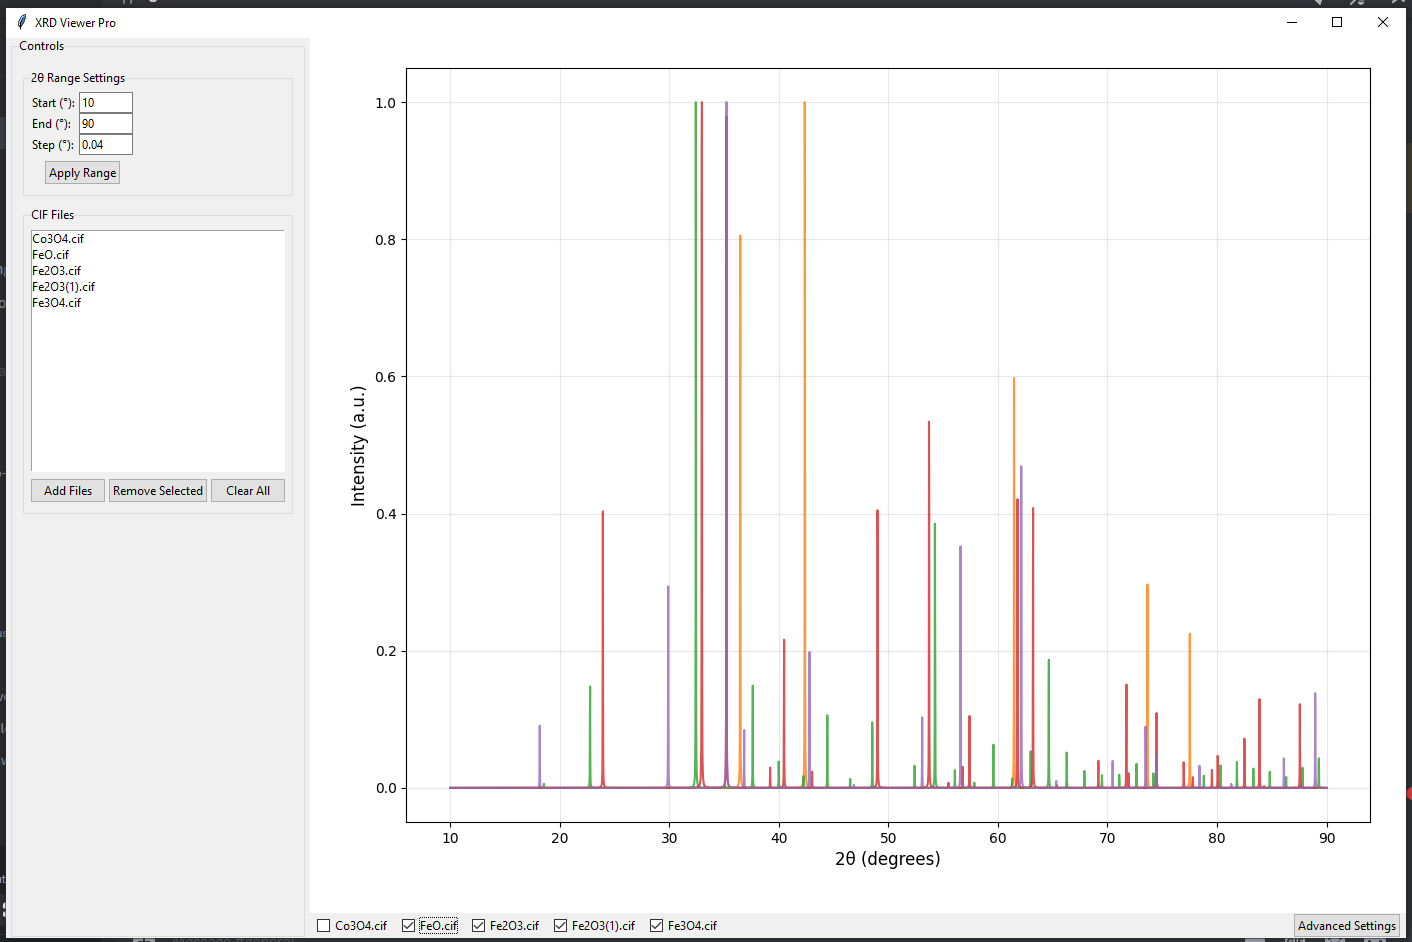
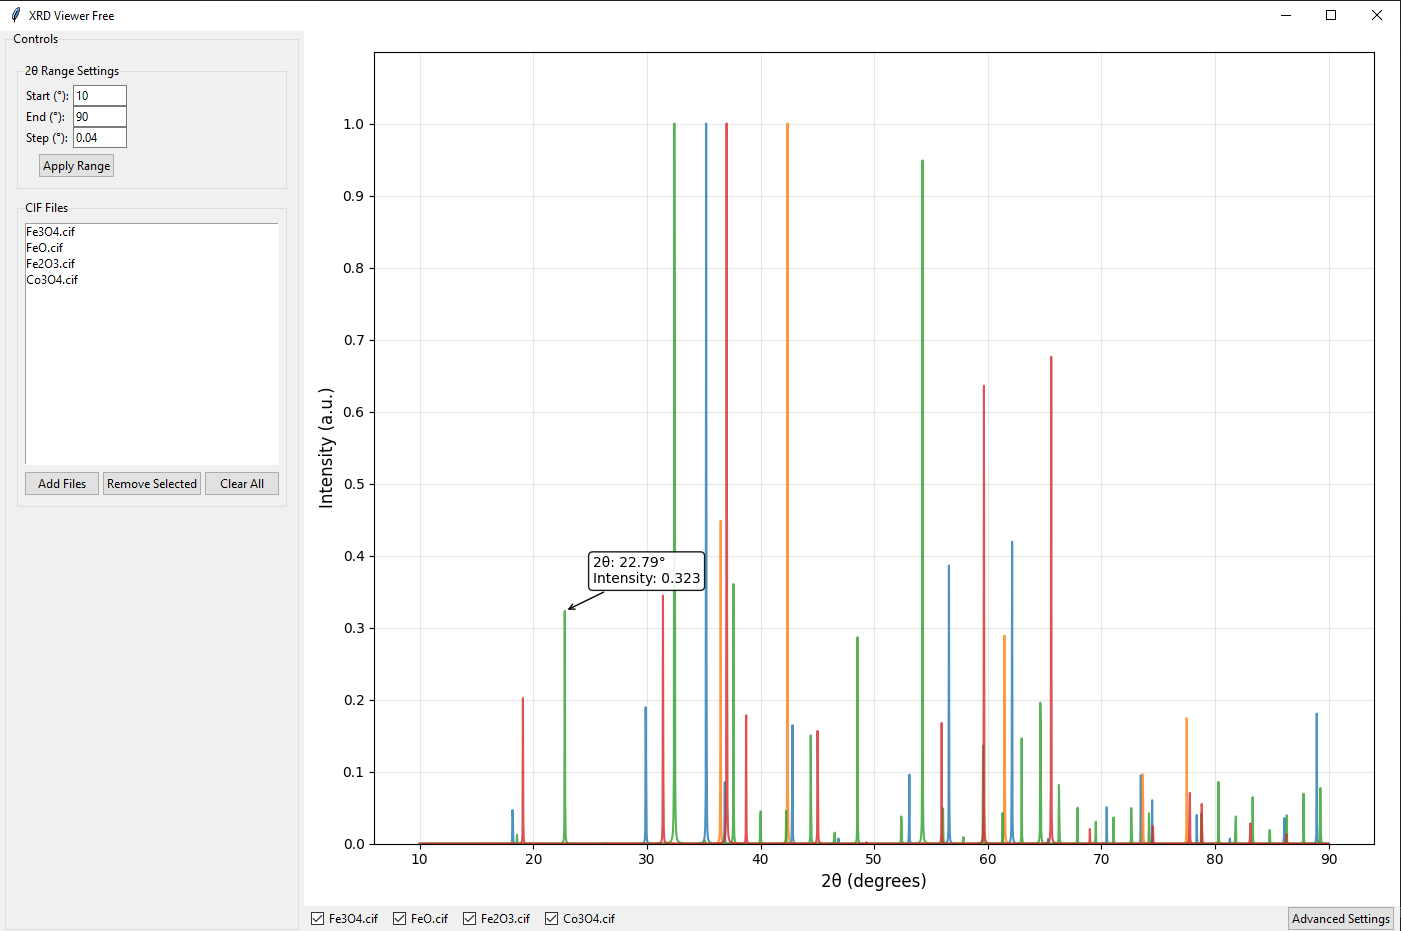
Ditched the 3D idea as it was an impossible implementation due to poor Materials Project API documentation. Added the ability to read the values on the plot.

diff --git a/main.py b/main.py
@@ -20,13 +20,26 @@ class PowderDiffractionViewer:
         self.spectra = {}
         self.wavelength = 1.5406  # Cu K-alpha
         self.sigma = 0.04  # Peak broadening (degrees)
-        self.theta_range = [10, 90]
-        self.step = 0.02
+        self.theta_range = [10, 90] #2theta range
+        self.step = 0.02 
         
-        # Create GUI components
         self.create_widgets()
         self.setup_plot()
         
+        self.canvas.mpl_connect("motion_notify_event", self.on_motion)
+        
+    def on_motion(self, event):
+        """Handle mouse motion events to show x, y values"""
+        if event.inaxes == self.ax:
+            x = event.xdata
+            y = event.ydata
+            self.annotation.xy = (x, y)
+            self.annotation.set_text(f"2θ: {x:.2f}°\nIntensity: {y:.3f}")
+            self.annotation.set_visible(True)
+        else:
+            self.annotation.set_visible(False)
+        self.canvas.draw_idle()
+
     def view_3d_structure(self):
         selected = self.file_list.curselection()
         if not selected:
@@ -35,19 +48,18 @@ class PowderDiffractionViewer:
     
         try:
             cif_path = self.files[selected[0]]
-            subprocess.Popen(["python", "crystal_3d_viewer.py", cif_path])
+            subprocess.Popen(["python", "fast_3d_viewer.py", cif_path])
         except Exception as e:
-            messagebox.showerror("Error", f"3D visualization failed:\n{str(e)}")    
+            messagebox.showerror("Error", f"3D visualization failed:\n{str(e)}") 
+            print(e)   
         
     def create_widgets(self):
         main_frame = ttk.Frame(self.root)
         main_frame.pack(fill=tk.BOTH, expand=True)
         
-        # Control panel
         control_frame = ttk.LabelFrame(main_frame, text="Controls", padding=10)
         control_frame.pack(side=tk.LEFT, fill=tk.Y, padx=5)
         
-        # Range settings
         range_frame = ttk.LabelFrame(control_frame, text="2θ Range Settings", padding=5)
         range_frame.pack(fill=tk.X, pady=5)
         
@@ -69,7 +81,6 @@ class PowderDiffractionViewer:
         ttk.Button(range_frame, text="Apply Range", 
                  command=self.update_theta_range).grid(row=3, column=0, columnspan=2, pady=5)
         
-        # File management
         file_frame = ttk.LabelFrame(control_frame, text="CIF Files", padding=5)
         file_frame.pack(fill=tk.X, pady=5)
         
@@ -83,7 +94,6 @@ class PowderDiffractionViewer:
         ttk.Button(btn_frame, text="Remove Selected", command=self.remove_selected_files).pack(side=tk.LEFT, fill=tk.X, expand=True, padx=2)
         ttk.Button(btn_frame, text="Clear All", command=self.clear_files).pack(side=tk.LEFT, fill=tk.X, expand=True)
         
-        # Plot area
         plot_frame = ttk.Frame(main_frame)
         plot_frame.pack(side=tk.RIGHT, fill=tk.BOTH, expand=True)
         
@@ -93,23 +103,30 @@ class PowderDiffractionViewer:
         self.canvas = FigureCanvasTkAgg(self.fig, master=plot_frame)
         self.canvas.get_tk_widget().pack(fill=tk.BOTH, expand=True)
         
-        # Toolbar with checkboxes
         self.toolbar = ttk.Frame(plot_frame)
         self.toolbar.pack(side=tk.BOTTOM, fill=tk.X)
         
         advanced_btn = ttk.Button(self.toolbar, text="Advanced Settings",
                                 command=self.show_advanced_settings)
-        advanced_btn.pack(side=tk.RIGHT, padx=5)
+        advanced_btn.pack(side=tk.RIGHT, padx=5)        
         
-        # 3D structure button
-        #ttk.Button(btn_frame, text="View 3D Structure", 
-        #  command=self.view_3d_structure).pack(side=tk.LEFT, fill=tk.X, expand=True, padx=2)
         
     def setup_plot(self):
         self.ax.set_xlabel("2θ (degrees)", fontsize=12)
         self.ax.set_ylabel("Intensity (a.u.)", fontsize=12)
         self.ax.grid(True, alpha=0.3)
         self.fig.tight_layout()
+    
+        # Set y-axis ticks and limits
+        self.ax.set_yticks(np.arange(0, 1.1, 0.1))
+        self.ax.set_ylim(0, 1.1)
+
+        self.annotation = self.ax.annotate(
+            "", xy=(0,0), xytext=(20,20), textcoords="offset points",
+            bbox=dict(boxstyle="round", fc="w", alpha=0.9),
+            arrowprops=dict(arrowstyle="->")
+        )
+        self.annotation.set_visible(False)
         
     def show_advanced_settings(self):
         """Dialog for advanced parameters"""
@@ -156,7 +173,6 @@ class PowderDiffractionViewer:
             self.theta_range = [new_start, new_end]
             self.step = new_step
             
-            # Reprocess all files with new settings
             if self.files:
                 current_files = self.files.copy()
                 self.clear_files()
@@ -185,11 +201,9 @@ class PowderDiffractionViewer:
     def remove_selected_files(self):
         selected = self.file_list.curselection()
         if selected:
-            # Remove in reverse order to preserve indices
             for idx in reversed(selected):
                 path = self.files[idx]
                 if path in self.spectra:
-                    # Remove checkbox
                     self.spectra[path]['checkbox'].destroy()
                     del self.spectra[path]
                 del self.files[idx]
@@ -197,7 +211,6 @@ class PowderDiffractionViewer:
             self.redraw_plot()
             
     def clear_files(self):
-        # Destroy all checkboxes and clear data
         for path in list(self.spectra.keys()):
             self.spectra[path]['checkbox'].destroy()
             del self.spectra[path]
@@ -294,7 +307,7 @@ class PowderDiffractionViewer:
         
     def update_plot(self):
         self.ax.relim()
-        self.ax.autoscale_view()
+        self.ax.autoscale_view(scalex=True, scaley=False)  
         self.canvas.draw()
 
 if __name__ == "__main__":

diff --git a/README.md b/README.md
@@ -1,6 +1,6 @@
 # XRD Viewer Free
 
-A Python-based GUI application for visualizing and analyzing X-ray diffraction (XRD) patterns from CIF files, with advanced features for accurate pattern calculation and 3D structure visualization (soon).
+A Python-based GUI application for visualizing and analyzing X-ray diffraction (XRD) patterns from CIF files, with advanced features for accurate pattern calculation.
 
 ![XRD Viewer Screenshot](image.png)
 
@@ -18,7 +18,6 @@ A Python-based GUI application for visualizing and analyzing X-ray diffraction (
 
 - **Advanced Features**
   - Customizable experimental parameters
-  - Integrated 3D structure visualization (soon)
   - Framework for Rietveld refinement integration
 
 - **File Management**
